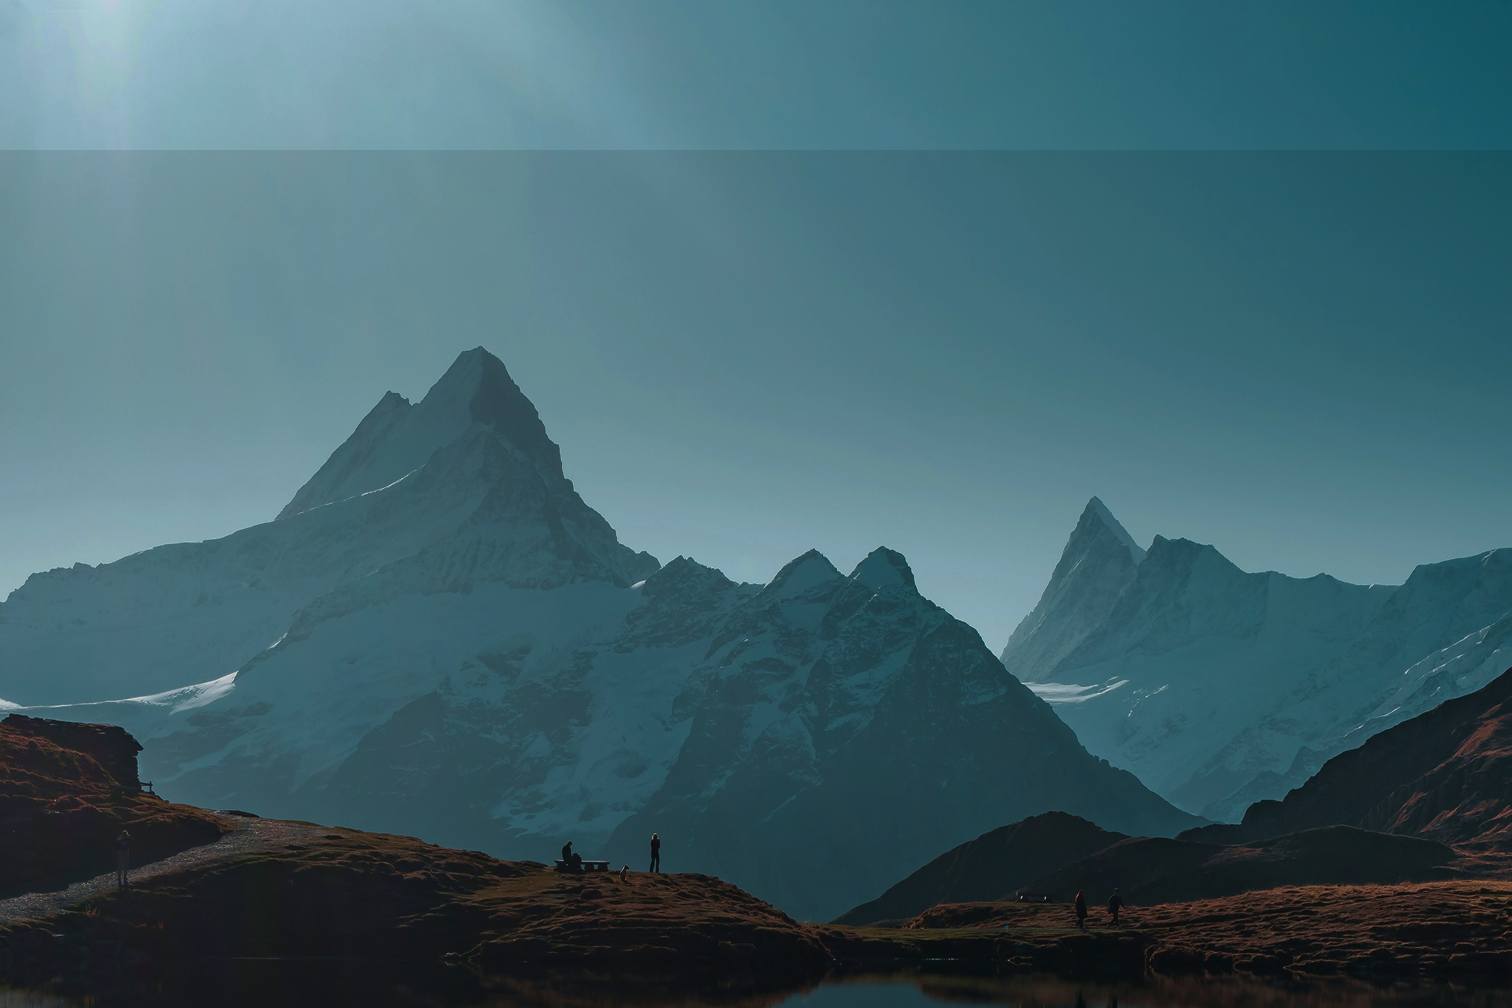
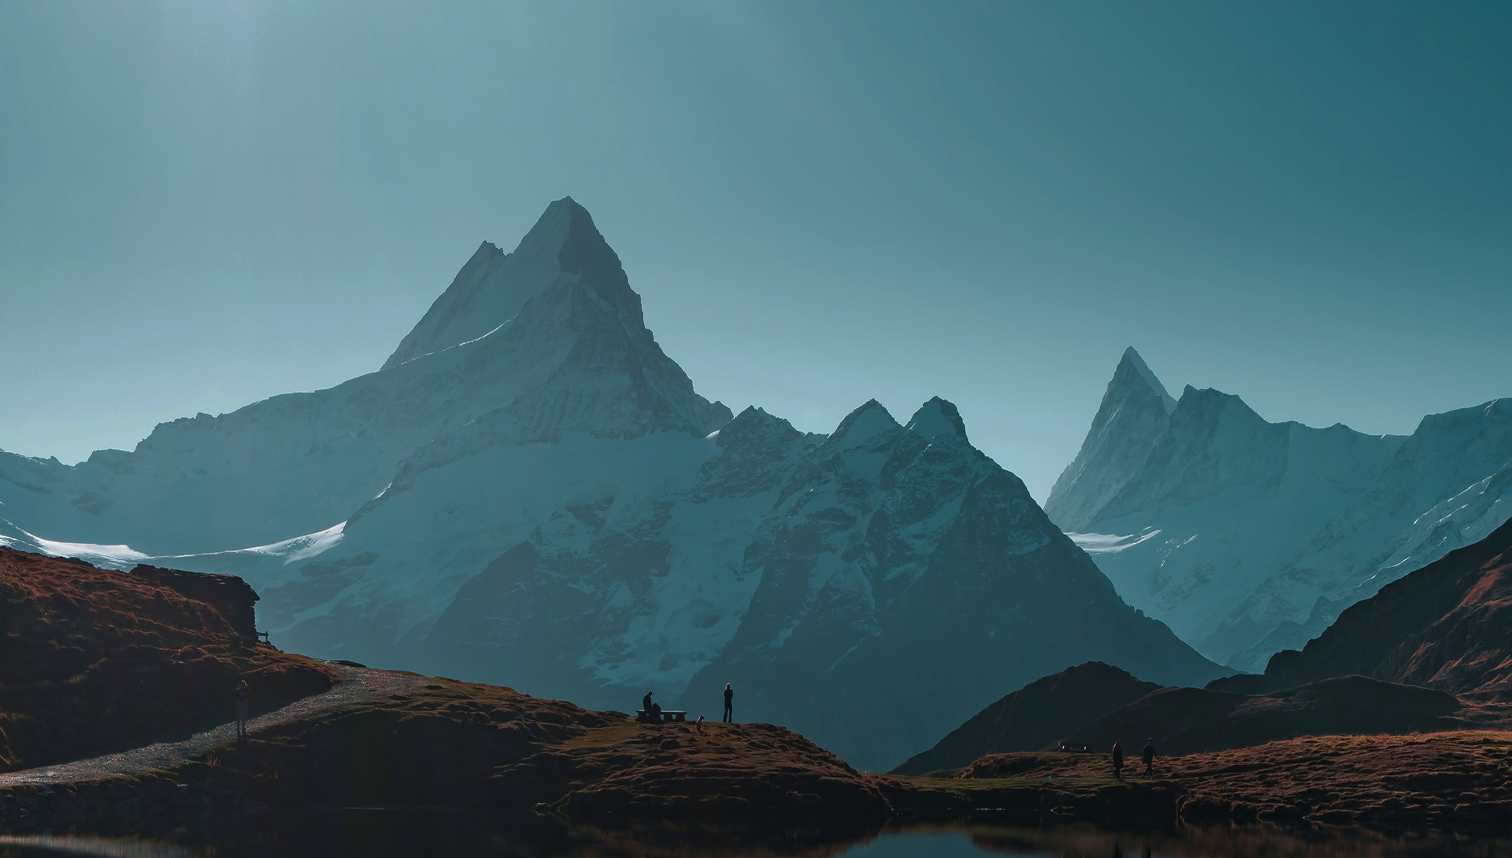
change

diff --git a/index.html b/index.html
@@ -13,124 +13,126 @@
   <body>
     <header>
       <!-- Navigation -->
-     <nav class="navbar navbar-expand-lg fixed-top sticky-top">
-      <div class="container">
-        <button class="navbar-toggler" type="button" data-bs-toggle="collapse" data-bs-target="#navbarNavDropdown">
-          <span class="navbar-toggler-icon"></span>
-        </button>
-        <ul class="d-flex">
+      <nav class="navbar navbar-expand-lg fixed-top sticky-top d-flex">
+        <div class="container">
           <li>
             <a href="index.html" style="margin-left: 0px;"
               ><img src="images/Web2 pic/POVEDA.png" class="logo"
             /></a>
           </li>
-          <div class="d-flex nav-item ms-auto">
-            <li><a href="menu/index.html" class="nav-link fw-semibold">Destinations</a></li>
-            <li><a href="howcanwehelpyou" class="nav-link fw-semibold">">Our Team</a></li>
-            <li><a href="planyourtrip" class="nav-link btn btn-outline-light fw-semibold">Plan Your Trip</a></li>
+          <button class="navbar-toggler" type="button" data-bs-toggle="collapse" data-bs-target="#navbarNav">
+            <span class="navbar-toggler-icon"></span>
+          </button>
+          <div class="collapse navbar-collapse justify-content-end" id="navbarNav">
+            <ul class="navbar-nav align-items-center">
+              <li class="nav-item">
+                <a class="nav-link" href="#">Destinations</a>
+              </li>
+              <li class="nav-item">
+                <a class="nav-link" href="#">Our Team</a>
+              </li>
+              <li class="nav-item">
+                <a class="btn btn-outline-light ms-3" href="#">Plan Your Trip</a>
+              </li>
+            </ul>
           </div>
-        </ul>
+        </div>
       </nav>
       <!-- Header -->
       <header class="header">
         <!-- Hero -->
-         <div class="hero text-white pt-7">
-            <div class="row">
-            <div class="col-md-6">
-              <div class="text-container p-4 d-flex flex-column justify-content-center h-100 mb-5">
-                <h2 class="display-3 fw-bold">IT’S TIME TO VISIT THE WORLD</h2>
-                <p class="lead">
-                  Start a new adventures, mystical experiences and relaxing beaches? It’s time to relax and you’ll get a great experience you’ll never forget
-                </p>
-              </div>
-            </div>
-            </div>
-         </div>
-    </header>
-    <main>
-      <section class="Service text-center d-flex">
-          <h2>How Can We Help You</h2>
-          <ul>
-            <li class="col-md-4">
-              <img src="images/Web2 pic/Smile.png"alt= "Customer Delight" />
-              <h5>Customer Delight</h5>
-              <h7>We deliver the best service and experience for our customer</h7>
-            </li>
-            <li class="col-md-4">
-                <img src="images/Web2 pic/Flag.png"alt= "Expert Guides" />
-                <h5>Expert Guides</h5>
-                <h7>We deliver only expert 
-                    tour guides for our customer</h7>
-              </li>
-              <li class="col-md-4">
-              <img src="images/Web2 pic/Time.png"alt= "Time Flexibility" />
-              <h5>Time Flexibility</h5>
-              <h7>We welcome time flexibility of traveling for our customer</h7>
-            </li>
-          </ul>
+        <section class="header d-flex">
+        <header class="hero-section d-flex align-items-center">
+          <div class="container text-center text-white">
+            <h5 class="fw-light">IT’S TIME TO</h5>
+            <h1 class="display-3 fw-bold">VISIT THE WORLD</h1>
+            <p class="lead">Start a new adventure, mystical experiences and relaxing beaches.<br>It’s time to relax and create unforgettable memories!</p>
+            <a href="#" class="btn btn-outline-light mt-3">Plan Your Trip</a>
+          </div>
+        </header>
       </section>
-            <section class="DESTINATION">
-              <div class="DESTINATIONbg">
-              <h4 class="text-center">Book Your Next Adventure</h4>
+    <main>
+      <!-- Services Section-->
+      <section class="py-5 text-center d-flex">
+        <div class="container">
+          <h2 class="mb-5 fw-bold">How Can We Help You</h2>
+          <div class="row g-4">
+            <div class="col-md-4">
+              <div>
+                <img src="images/Web2 pic/Smile.png" alt="Customer Delight" class="mb-3 icon-size">
+                <h5>Customer Delight</h5>
+                <p class="text-muted small">We deliver the best service and experience for our customer</p>
               </div>
-              <p class="mb-5">Book your next adventure with ease and confidence, and let us take care 
-                of the details  while you focus on making  memories</p>
-            </li>
-            <!--Card 1 -->
-            <div class="container">
-            <div class="row">
-            <div class="col d-flex">
-              <div class="card destination-card">
-              <img src="images/Web2 pic/Denmark.png" class="image-fluid" alt="Denmark" />
-              <div class="card-body">
-              <h5 class="card-title">Denmark</h5>
-              <p class="images/Web2 pic/location.png">Day 1</p>
-              <div class="text-end">
-                <a href="images/Web2 pic/button.png" class="btn btn-outline-secondary">&rarr;</a>
+            </div>
+            <div class="col-md-4">
+              <div>
+                <img src="images/Web2 pic/Flag.png" alt="Expert Guides" class="mb-3 icon-size">
+                <h5>Expert Guides</h5>
+                <p class="text-muted small">We deliver only expert tour guides for our customer</p>
+              </div>
+            </div>
+            <div class="col-md-4">
+              <div>
+                <img src="images/Web2 pic/Time.png" alt="Time Flexibility" class="mb-3 icon-size">
+                <h5>Time Flexibility</h5>
+                <p class="text-muted small">We welcome time flexibility of traveling for our customer</p>
+              </div>
+            </div>
           </div>
         </div>
-              </div>
-              <div class="container">
-    <div class="row">
-    <div class="col d-flex">
-      <div class="card destination-card">
-      <img src="images/Web2 pic/GReeceday2.png" class="img-fluid" alt="Greece" />
-      <div class="card-body"></div>
-      <h5 class="card-title">Greece</h5>
-      <p class="images/Web2 pic/location.png"></span> Day 2</p>
-      <div class="text-end">
-        <a href="images/Web2 pic/button.png" class="btn btn-outline-secondary">&rarr;</a>
-  </div>
-      </div>
-</div>
-<div class="container">
-<div class="row">
-<div class="col d-flex">
-  <div class="card destination-card">
-  <img src="images/Web2 pic/New Zealand.png" class="img-fluid" alt="New Zealand" />
-  <div class="card-body"></div>
-  <h5 class="card-title">New Zealand</h5>
-  <p class="images/Web2 pic/location.png"></span> Day 3</p>
-  <div class="text-end">
-    <a href="images/Web2 pic/button.png" class="btn btn-outline-secondary">&rarr;</a>
-</div>
-  </div>
-</div>
-<div class="container">
-<div class="row">
-<div class="col d-flex">
-  <div class="card destination-card">
-  <img src="images/Web2 pic/sweden.png" class="img-fluid" alt="Sweden" />
-  <div class="card-body"></div>
-  <h5 class="card-title">Sweden</h5>
-  <p class="images/Web2 pic/location.png"></span> Day 3</p>
-  <div class="text-end">
-    <a href="images/Web2 pic/button.png" class="btn btn-outline-secondary">&rarr;</a>
-</div>
-</div>
-</div>
-</div>
       </section>
+      <!-- Destinations Section -->
+      <section class="py-5">
+        <div class="container text-center">
+          <img src="images/Web2 pic/DESTINATION.png" alt="DESTINATION">
+          <h5 class="mb-4">Book Your Next Adventure</h5>
+          <p class="text-muted mb-5">Book your next adventure with ease and confidence, and let us take care of the details while you focus on making memories.</p>
+          
+            <!--Card 1 -->
+            <div class="row g-4">
+              <div class="col-md-3 d-flex">
+                <div class="card h-100 shadow-sm">
+                  <img src="images/Web2 pic/Denmark.png" class="card-img-top" alt="Denmark">
+                  <div class="card-body text-start">
+                    <h5 class="card-title">Denmark</h5>
+                    <p class="card-text small text-muted">Day 1</p>
+                    <a href="#" class="btn btn-outline-secondary rounded-circle">&rarr;</a>
+                  </div>
+                </div>
+              </div>
+              <div class="col-md-3 d-flex">
+                <div class="card h-100 shadow-sm">
+                  <img src="images/Web2 pic/GReeceday2.png" class="card-img-top" alt="Greece">
+                  <div class="card-body text-start">
+                    <h5 class="card-title">Greece</h5>
+                    <p class="card-text small text-muted">Day 2</p>
+                    <a href="#" class="btn btn-outline-secondary rounded-circle">&rarr;</a>
+                  </div>
+                </div>
+              </div>
+              <div class="col-md-3 d-flex">
+                <div class="card h-100 shadow-sm">
+                  <img src="images/Web2 pic/New Zealand.png" class="card-img-top" alt="New Zealand">
+                  <div class="card-body text-start">
+                    <h5 class="card-title">New Zealand</h5>
+                    <p class="card-text small text-muted">Day 3</p>
+                    <a href="#" class="btn btn-outline-secondary rounded-circle">&rarr;</a>
+                  </div>
+                </div>
+              </div>
+              <div class="col-md-3 d-flex">
+                <div class="card h-100 shadow-sm">
+                  <img src="images/Web2 pic/sweden.png" class="card-img-top" alt="Sweden">
+                  <div class="card-body text-start">
+                    <h5 class="card-title">Sweden</h5>
+                    <p class="card-text small text-muted">Day 4</p>
+                    <a href="#" class="btn btn-outline-secondary rounded-circle">&rarr;</a>
+                  </div>
+                </div>
+              </div>
+            </div>
+          </div>
+        </section>
       <!-- How it Works Section -->
       <section>
         <div class="Howitwork my-5">
@@ -147,12 +149,14 @@
       </div>
         </div>
       </section>
+      <!-- END-->
       <div class="end-plan">
-        <p class="text-uppercase">EXPLORE THE WONDERFUL OF </p>
-        <p class="fw-bold">POVEDA</p>
+        <div class="container text-center text-white">
+        <p class="text-uppercase">EXPLORE THE WONDERFUL OF POVEDA</p>
         <a href="#" class="btn btn-outline-light mt-3">Plan Your Trip</a>
       </div>
     </div>
+      </section>
     </main>
     <!-- Footer -->
   <div class="footer">

diff --git a/css/styles.css b/css/styles.css
@@ -2,19 +2,44 @@
 ul{
   list-style: none;
 }
-body {
-}
+
 .header {
   background: url(../images/Web2\ pic/hero.png) center center no-repeat;
   background-size: cover;
   height:800px;
+  width: 1512px;
+}
+
+.hero{
+  height: 1008px;
+  width: 1512px;
+}
+.hero-text {
+  font-size: 7rem;
+  font-weight: 900;
+  color: white;
+  position: absolute;
+margin-top: 12.7rem;
+  transform: translateX(-50%);
+  z-index: 1;
 }
 
   .DESTINATIONbg{
     background-image: url(../images/Web2\ pic/DESTINATION.png);
+    height:117px;
+    width: 1512px;
+  }
+  .DESTINATIONbg h4{
+    padding-top: 5%;
   }
 nav{
-  background-color: rgba(white 0.2);
+  background-color:#507881;
+  height: 149px;
+    list-style-type: none;
+    width: 1512px;
+}
+.navbar-nav{
+  color:white;
 }
 .btn{
   padding:13px 26px 13px 26px;
@@ -37,7 +62,18 @@ nav{
 }
 .end-plan{
   background-image: url(../images/Web2\ pic/footer.png);
+  height: 691px;
+  width: 1512px;
   
+}
+.end-plan p{
+  margin-top: 27.5rem;
+  margin-bottom: 19rem;
+  width: 631px;
+  height: 226px;
+  margin-left: 44.1rem;
+  margin-right: 44.1rem;
+  text-align: center;
 }
 
 .footer {

diff --git a/scss/bootstrap.scss b/scss/bootstrap.scss
@@ -2,8 +2,9 @@
 $font-family-serif: "Merriweather", serif;
 
 // Colors
-$primary:       #000000 !default;
-$secondary:     #5C5858 !default;
+$primary: #0d6efd;
+$body-bg: #ffffff;
+$body-color: #212529;
 $success:       $green !default;
 $info:          $cyan !default;
 $warning:       $yellow !default;
